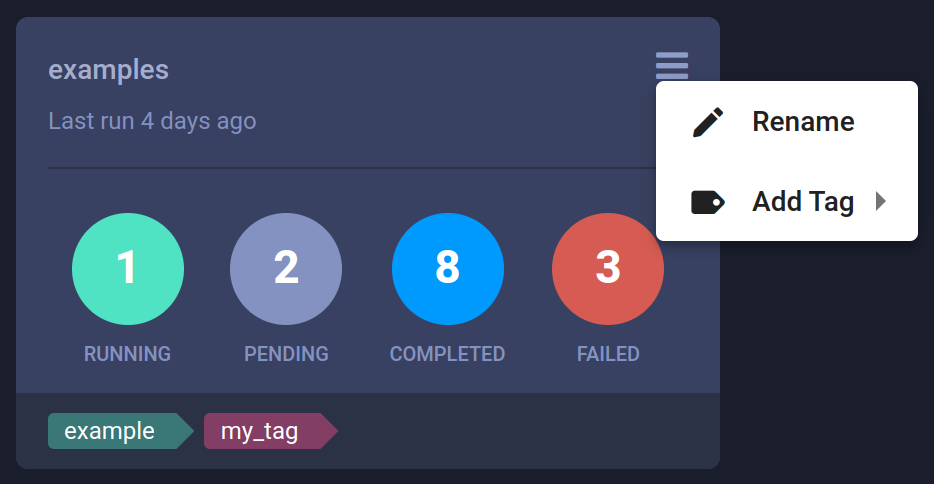
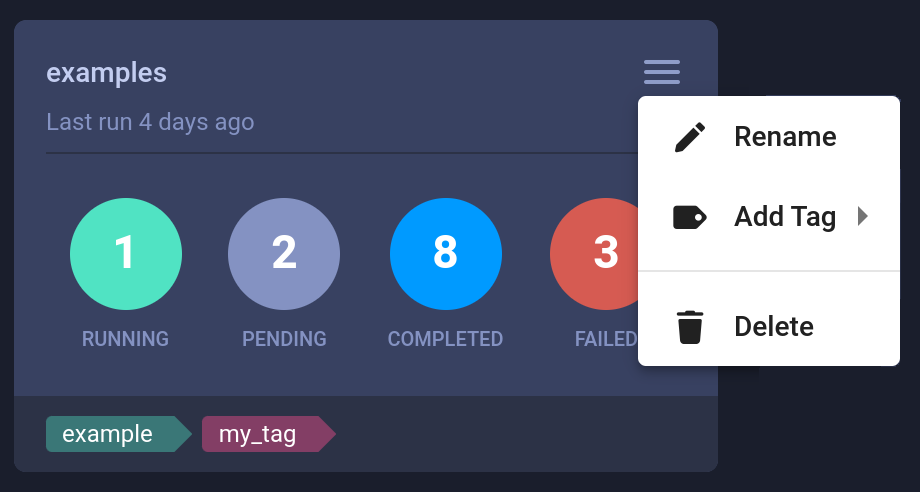
Delete pipeline

diff --git a/docs/webapp/pipelines/webapp_pipeline_page.md b/docs/webapp/pipelines/webapp_pipeline_page.md
@@ -38,5 +38,7 @@ of a pipeline card to open its context menu and access pipeline actions.
 
 </div>
 
-* Rename - Change the pipeline’s name
-* Add Tag - Add label to the pipeline to help easily classify groups of pipelines.
+* **Rename** - Change the pipeline’s name
+* **Add Tag** - Add label to the pipeline to help easily classify groups of pipelines.
+* **Delete** - Delete the pipeline: delete all its runs and any models/artifacts produced (a list of remaining artifacts 
+  is returned). To delete a pipeline, all its runs must first be [archived](../webapp_archiving.md). 
